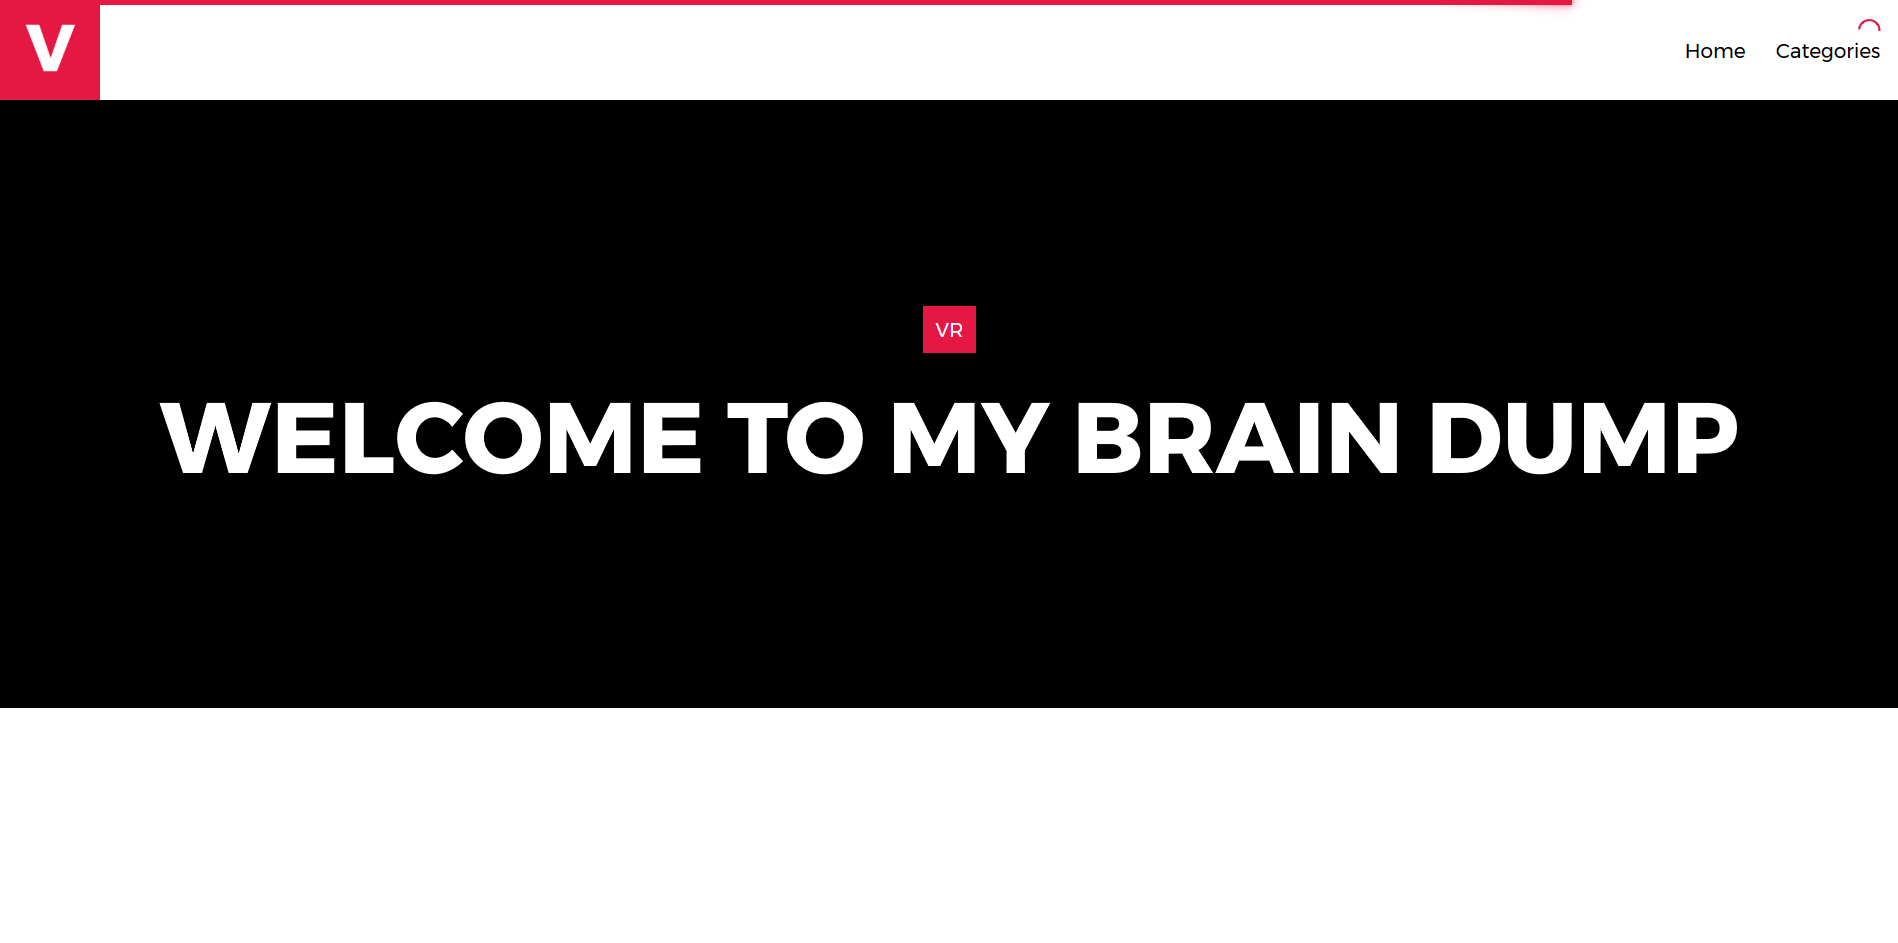
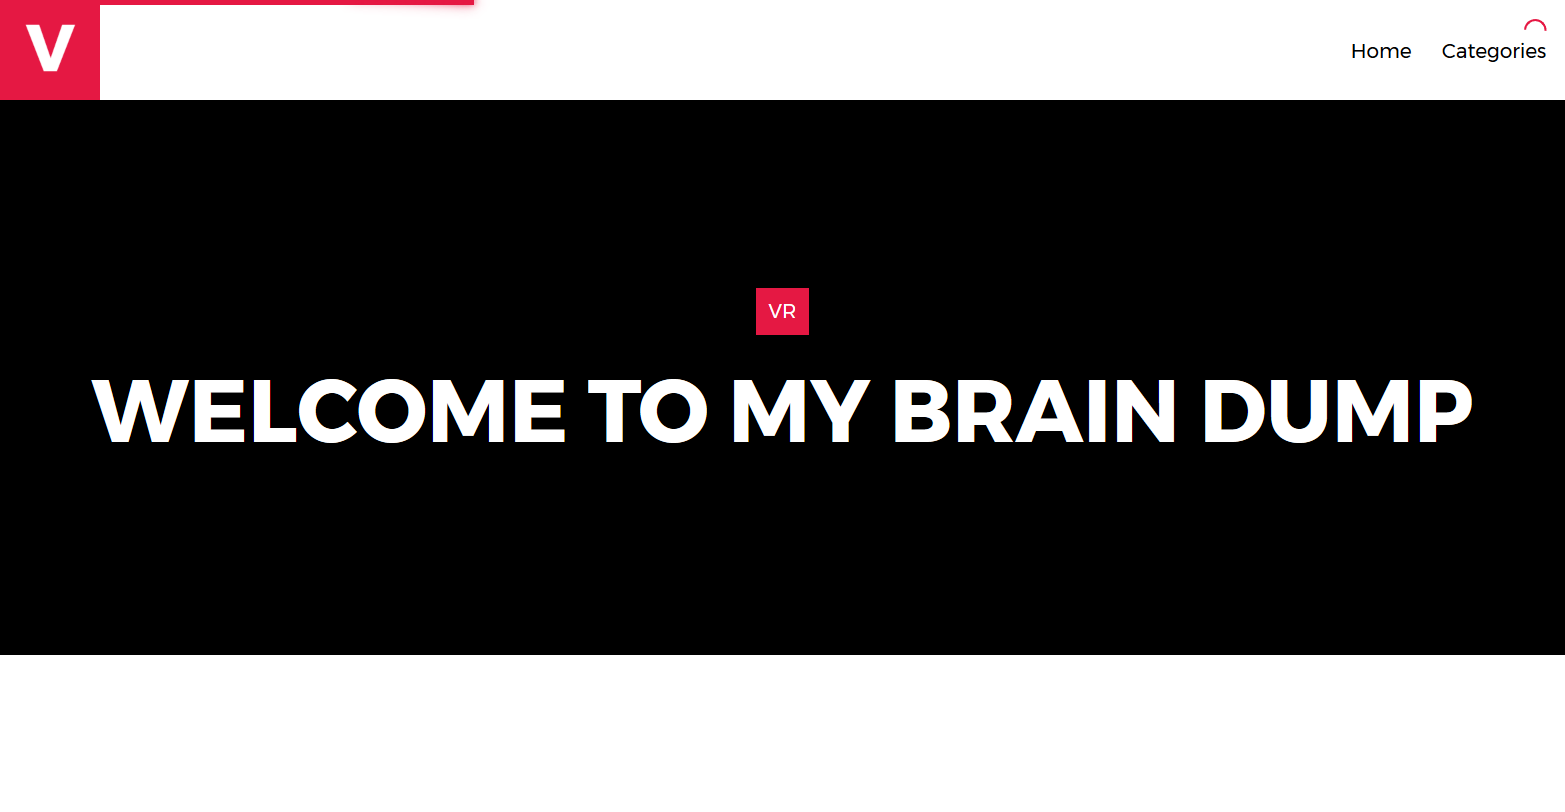
merged conflicts, code cleanup

diff --git a/AutomatedVisualTesting/ImageTool.cs b/AutomatedVisualTesting/ImageTool.cs
@@ -53,7 +53,6 @@ public static class ImageTool
         {
             if (b > threshold) { diffPixels++; }
         }
-
         return diffPixels / 256f;
     }
 
@@ -99,11 +98,7 @@ public static class ImageTool
     public static void CreateDifferenceImage(Image img1, Image img2, string browser)
     {
         String fileDirectory = "../../Screenshots/";
-<<<<<<< HEAD
         img1.GetDifferenceImage(img2).Save(string.Format("{0}{1}Differences.png", fileDirectory, browser));
-=======
-        img1.GetDifferenceImage(img2).Save(fileDirectory + "Differences.png");
->>>>>>> 9035a23527591ee6fef37c67ad941cfd3f54b8ad
     }
 
     /// <summary>
@@ -264,7 +259,6 @@ public static class ImageTool
         }
 
         driver.Navigate().GoToUrl(url);
-        //driver.Manage().Window.Maximize();// Size = new Size(480, 320);
         WaitForLoad(driver);
         Screenshot ss = ((ITakesScreenshot)driver).GetScreenshot();
 
@@ -281,40 +275,7 @@ public static class ImageTool
         String fileName = string.Format("{0}{1}.png", fileDirectory, browser.ToString());
         ss.SaveAsFile(fileName, ImageFormat.Png);
 
-<<<<<<< HEAD
         driver.Quit();
-=======
-        driver.Close();
-    }
-
-    /// <summary>
-    /// Gets the difference between two images as a percentage
-    /// </summary>
-    /// <returns>The difference between the two images as a percentage</returns>
-    /// <param name="image1Path">The path to the first image</param>
-    /// <param name="image2Path">The path to the second image</param>
-    /// <param name="threshold">How big a difference (out of 255) will be ignored - the default is 0.</param>
-    /// <returns>The difference between the two images as a percentage</returns>
-    public static int GetDifference(string image1, Uri url)
-    {
-        String fileDirectory = "../../Screenshots/";
-        if (CheckFile(fileDirectory + image1))
-        {
-            MemoryStream currentScreenshot = new MemoryStream(GetScreenshotByUrl(url));
-            Image img1 = Image.FromFile(fileDirectory + image1);
-            Image img2 = Image.FromStream(currentScreenshot);
-
-            float differencePercentage = img1.Differences(img2, 0);
-            if(differencePercentage > 0 )
-            {
-                CreateDifferenceImage(img1, img2);
-                img2.Save(fileDirectory + "ImageFromUrl.png");
-            }
-
-            return (int)(differencePercentage * 100);
-        }
-        else return -1;
->>>>>>> 9035a23527591ee6fef37c67ad941cfd3f54b8ad
     }
 
     /// <summary>
@@ -338,7 +299,6 @@ public static class ImageTool
                 break;
         }
         driver.Navigate().GoToUrl(url.ToString());
-        //driver.Manage().Window.Maximize();//Size = new Size(480,320);
         WaitForLoad(driver);
 
         Screenshot ss = ((ITakesScreenshot)driver).GetScreenshot();
@@ -349,7 +309,6 @@ public static class ImageTool
 
         return bytes;
     }
-<<<<<<< HEAD
 
     /// <summary>
     /// Wait for page to load
@@ -362,6 +321,3 @@ public static class ImageTool
         wait.Until(wd => js.ExecuteScript("return document.readyState").ToString() == "complete");
     }
 }
-=======
-}
->>>>>>> 9035a23527591ee6fef37c67ad941cfd3f54b8ad

diff --git a/AutomatedVisualTesting/Tests.cs b/AutomatedVisualTesting/Tests.cs
@@ -65,18 +65,4 @@ public class Tests
         //Assert
         Assert.IsTrue(difference == 0); // do not allow any difference
     }
-
-    [TestMethod]
-    public void DetectDifferenceBetweenTwoImages()
-    {
-        //Arrange
-        String image1 = "Chrome1.png";
-        String image2 = "Chrome2.png";
-
-        //Act
-        int difference = GetDifference(image1, image2);
-
-        //Assert
-        Assert.IsTrue(difference == 0); // do not allow any difference
-    }
 }
